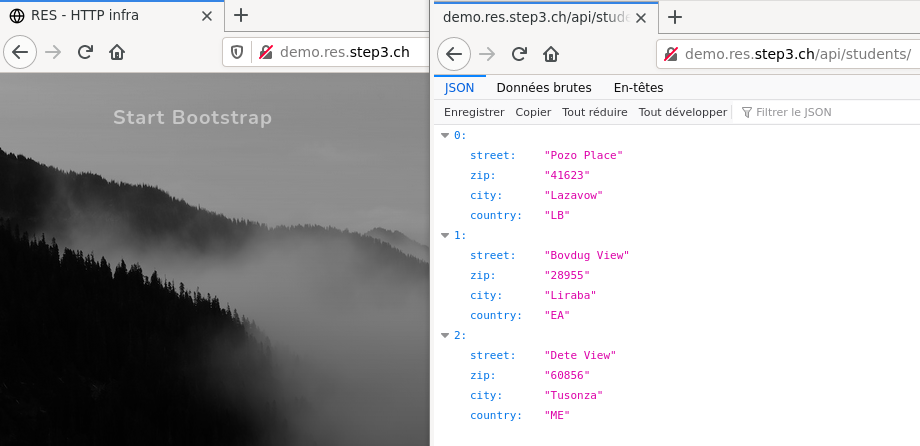
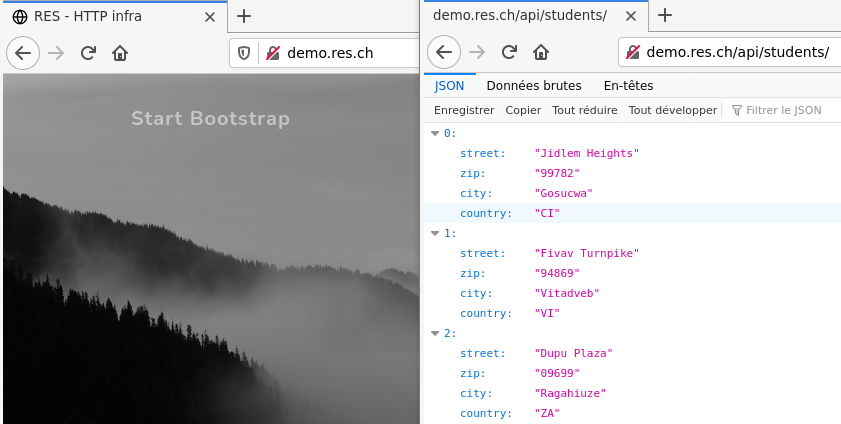
maj readme s3

Changed region(s): [[0.0, 0.0, 1.0, 1.0], [0.1237, 0.2453, 0.3401, 0.3066]]

diff --git a/README.md b/README.md
@@ -179,7 +179,7 @@ Implémentaion d'un conteneur Docker servant de reverse proxy avec une configura
 
 **Implémentation**
 
-Implémentation identique à celle du cours, plus une utilisation d'un fichier docker-compose.
+Implémentation identique à celle du cours, plus une utilisation d'un fichier docker-compose pour la suite du labo.
 
 
 
@@ -218,7 +218,7 @@ RUN a2ensite 000-* 001-*
 
 ````
 <VirtualHost *:80>
-	ServerName demo.res.step3.ch
+	ServerName demo.res.ch
         ProxyPass "/api/students/" "http://173.17.0.3:3000/"
         ProxyPassReverse "/api/students/" "http://173.17.0.3:3000/"
 
@@ -304,6 +304,18 @@ Ajouter la ligne ci-dessous au fichier `/etc/hosts` Pour pouvoir accéder au rev
 
 
 
+**Objectif**
+
+Implémenter un script sur le serveur web statique qui fera une requête Ajax au serveur qui fourni l'application express.js. Le tout via le reverse proxy.
+
+
+
+**Implémentation**
+
+Implémentation identique a cele du cours avec quelques adaptations.
+
+
+
 - Fichier addresses.js
 
 Ce script sera lancé depuis le site web, et fait une requête au reverse proxy sur `/api/students` pour demander les adresses créées sur le container express-js.
@@ -335,7 +347,7 @@ Pour pouvoir recopier le code exemple du cours, nous avons ajouté une classe `s
 
 Nous avons aussi du ajouter un lien vers les librairies JQuery pour que notre script puisse fonctionner.
 
-Notre choix s'est porté sur un téléchargement des librairies pour limiter le poids de notre container.
+Notre choix s'est porté sur un téléchargement des librairies pour limiter le poids de notre containers.
 
 ````html
 <div class="text-center">
